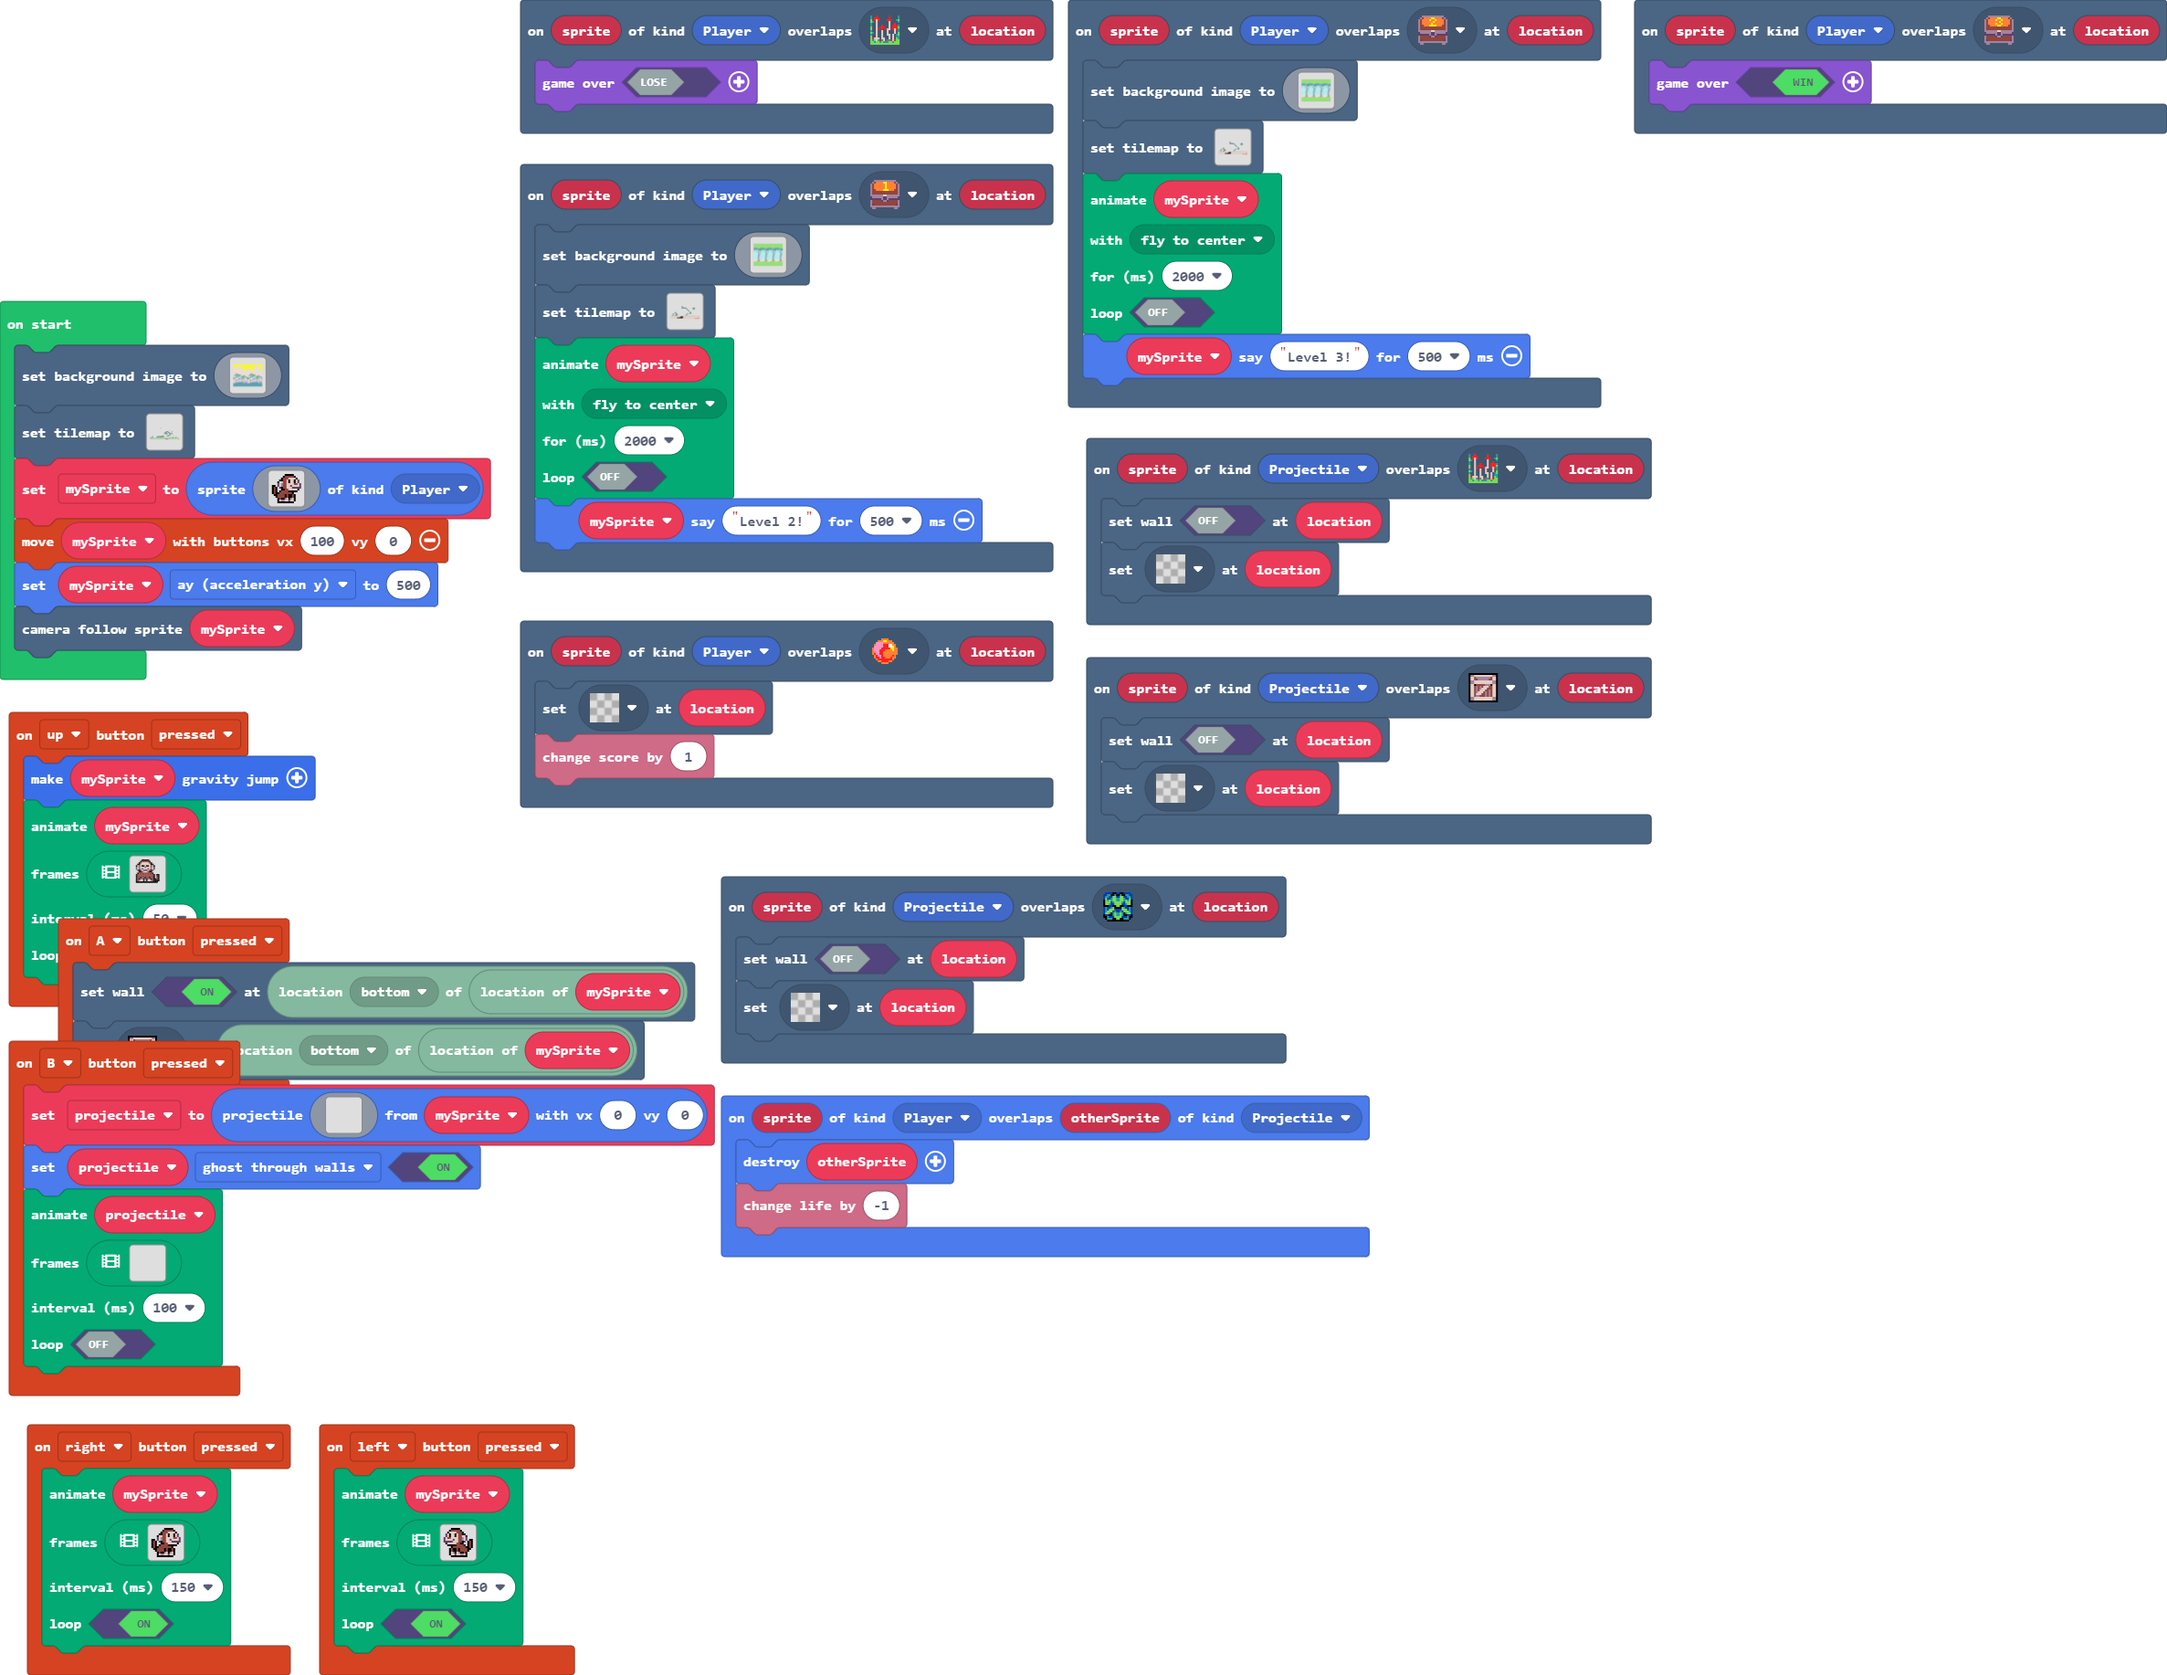
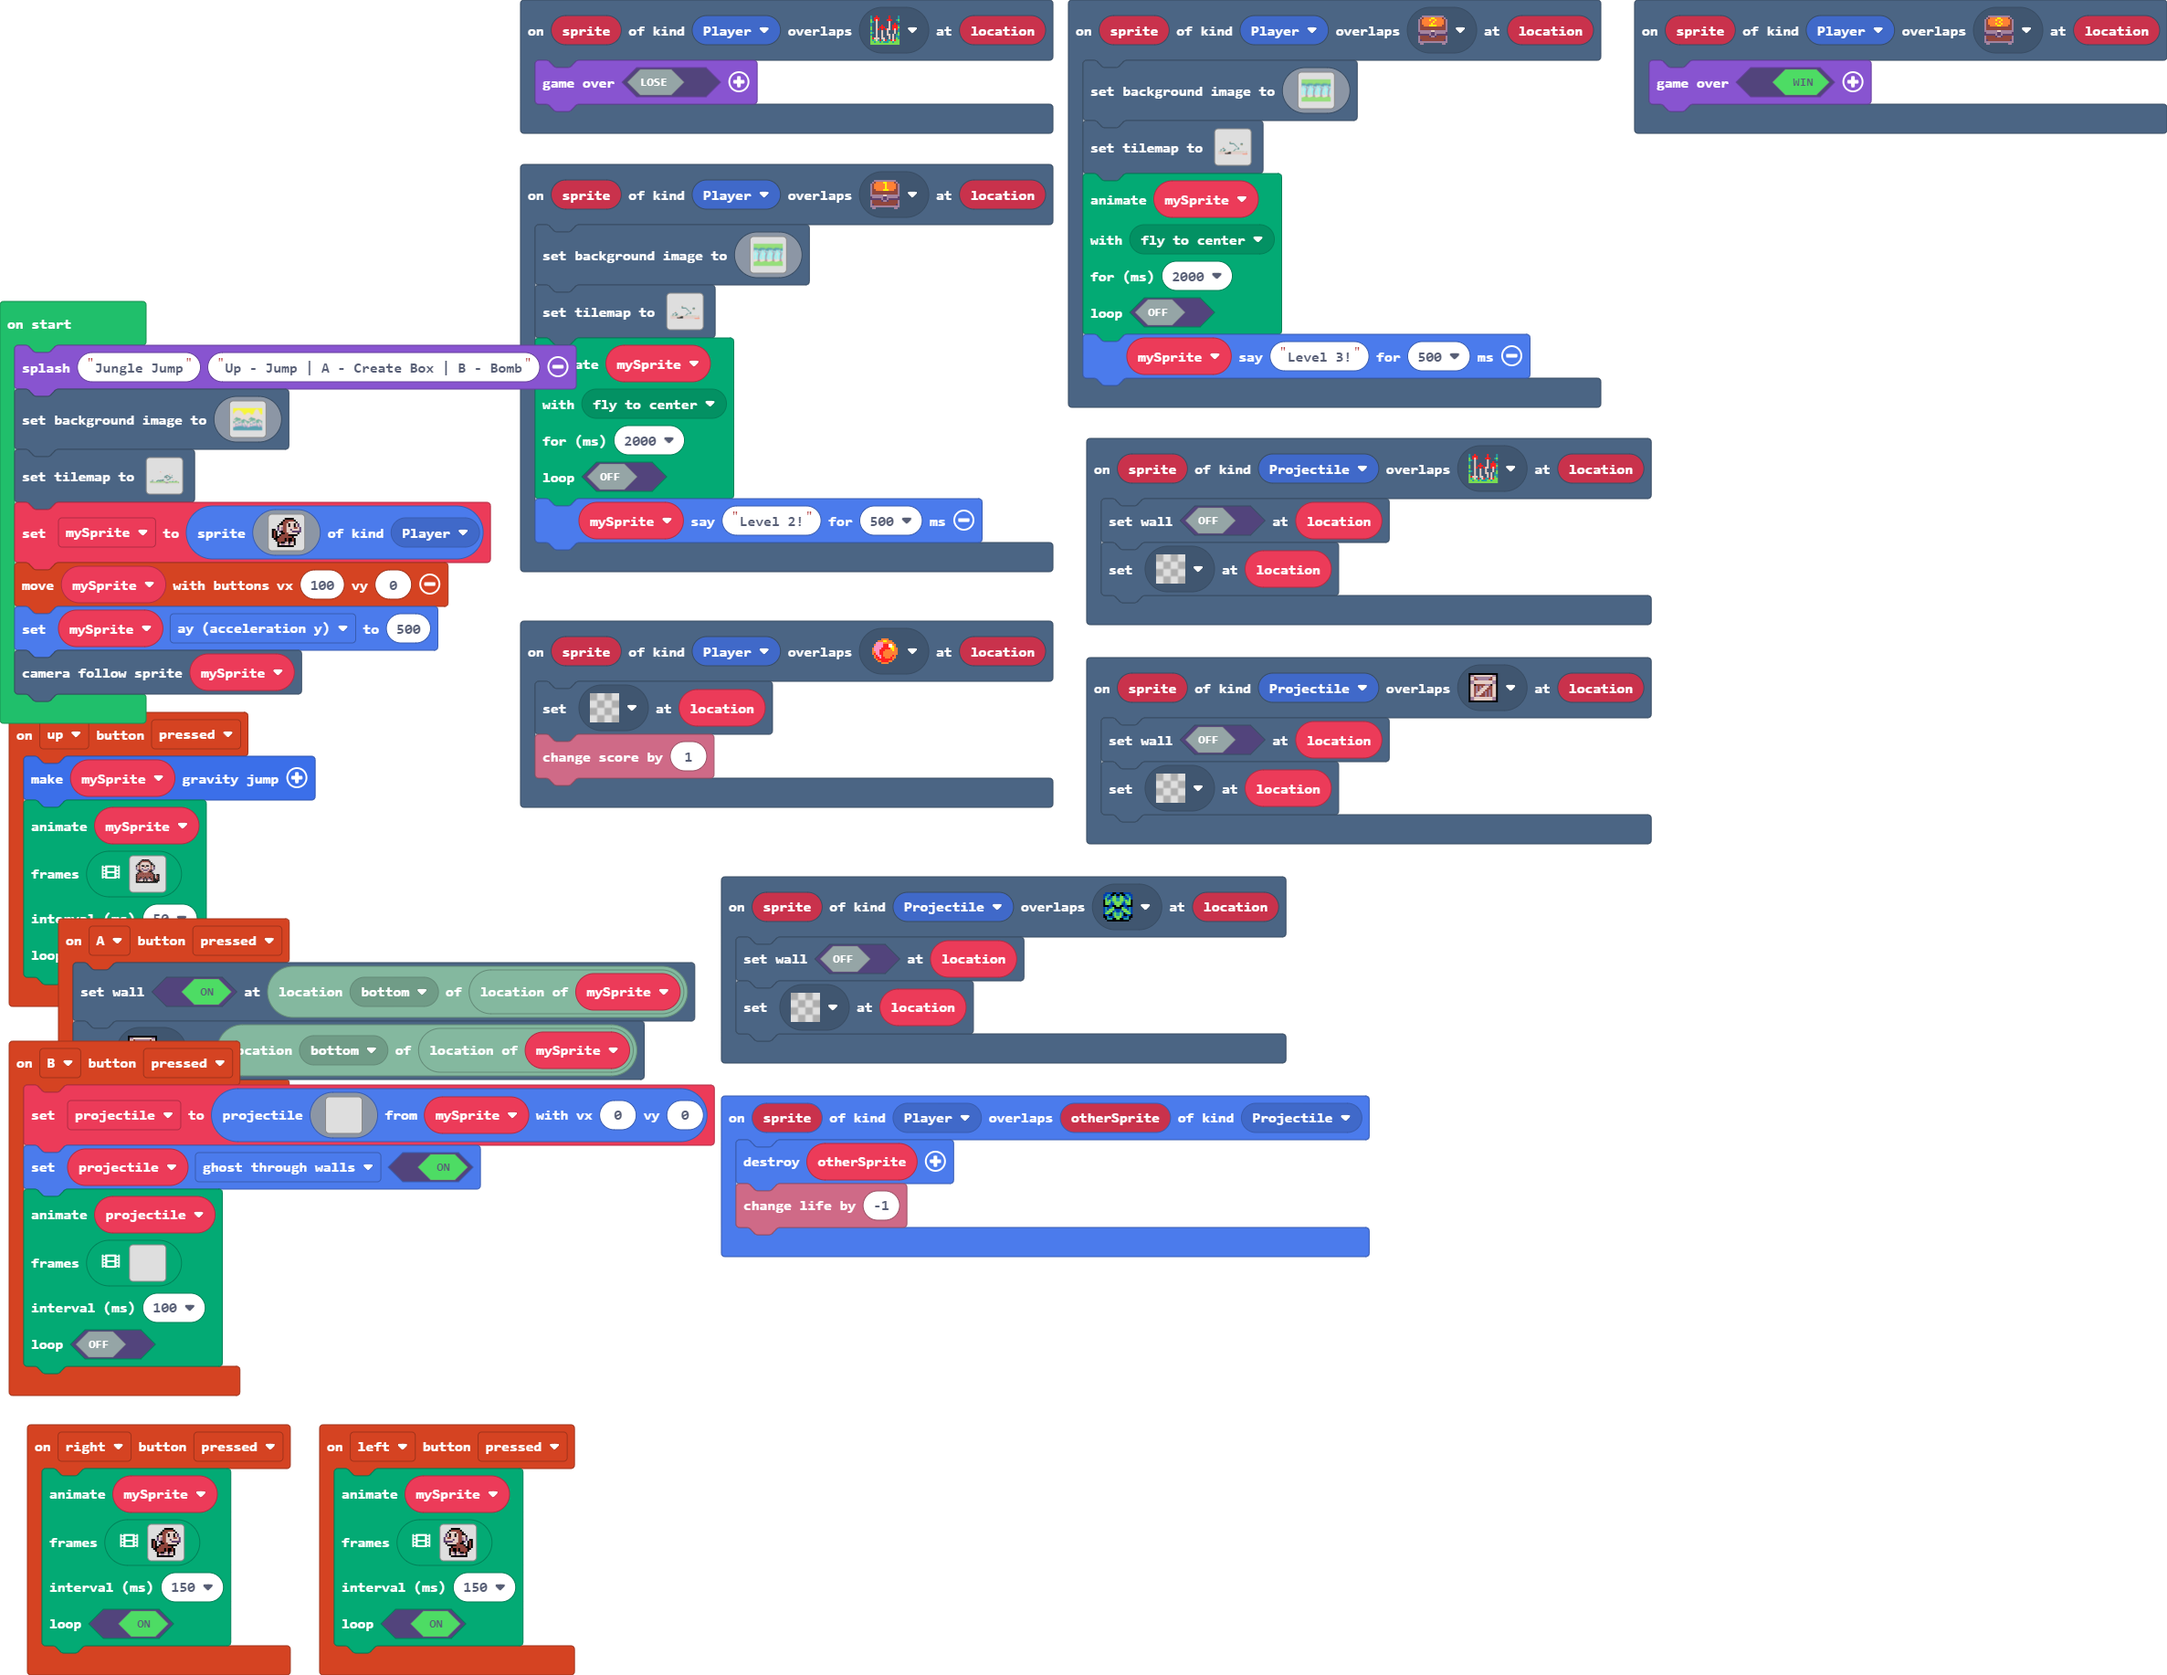
Create title screen

Changed region(s): [[0.0, 0.1865, 0.2807, 0.4351]]

diff --git a/main.ts b/main.ts
@@ -104,6 +104,7 @@ scene.onOverlapTile(SpriteKind.Player, assets.tile`chest3`, function (sprite, lo
 })
 let projectile: Sprite = null
 let mySprite: Sprite = null
+game.splash("Jungle Jump", "Up - Jump | A - Create Box | B - Bomb")
 scene.setBackgroundImage(assets.image`background`)
 tiles.setTilemap(tilemap`level1`)
 mySprite = sprites.create(assets.image`stand`, SpriteKind.Player)
